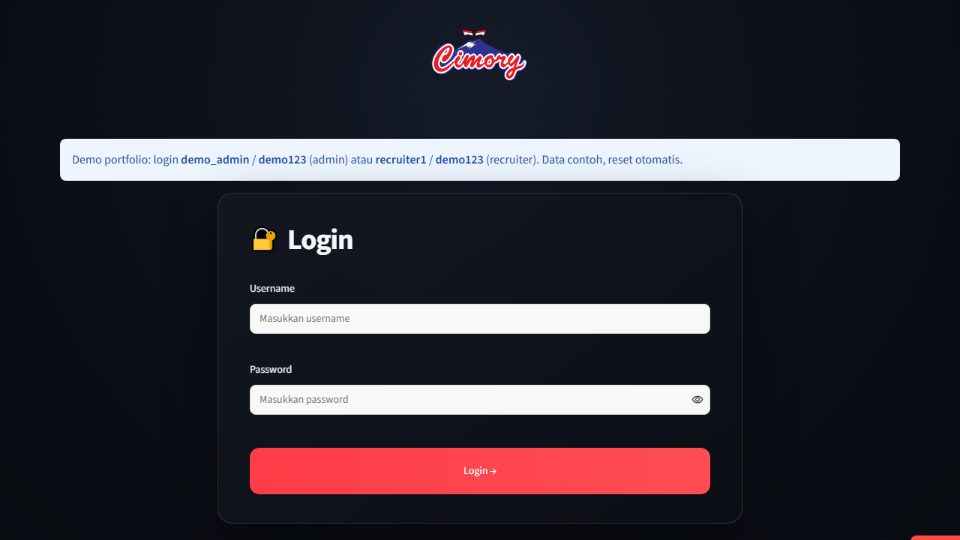
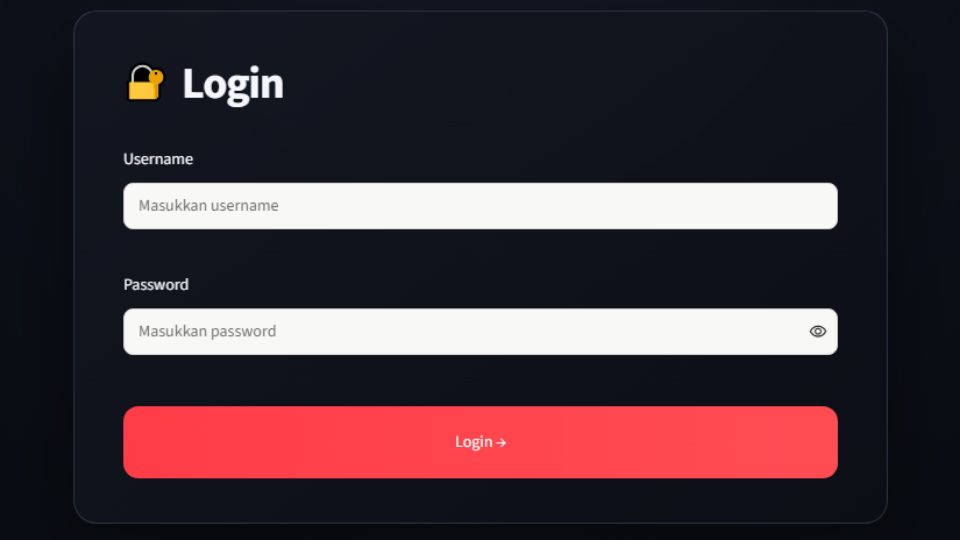
content: publish Overtime Management System; FPTK thumbnail without demo logins
- Overtime Management System published after Desi confirmed sentences O1-O11.
  Capabilities process + development (proposal; adjustable in the CMS).
  Thumbnail: login page cropped to logo and card (no contact email or
  demo-credentials box).
- FPTK thumbnail re-cropped to the login card: the old crop showed the demo
  login line.
- Tests: draft examples move to Hospital ERP; filter test covers Process;
  the snapshot test checks that TODO-only sections stay hidden.

diff --git a/tests/e2e/dev/case-study.spec.ts b/tests/e2e/dev/case-study.spec.ts
@@ -48,8 +48,12 @@ test.describe("case-study layout (1280px)", () => {
     await expect(snapshot).toContainText(
       "HR's overtime recap time went from about 4 hours to about 5 minutes.",
     );
+    // Published: sections that only hold TODO(content) are hidden until filled.
+    const empty = ["Solution design", "Verification"];
     for (const name of TEMPLATE_HEADINGS) {
-      await expect(page.getByRole("heading", { level: 2, name, exact: true })).toBeVisible();
+      const heading = page.getByRole("heading", { level: 2, name, exact: true });
+      if (empty.includes(name)) await expect(heading).toHaveCount(0);
+      else await expect(heading).toBeVisible();
     }
     await expect(page.getByRole("link", { name: "< back to projects" })).toHaveAttribute(
       "href",
@@ -119,16 +123,16 @@ test("/projects lists every draft project and the filter hides non-matching ones
   await expect(items).toHaveCount(SLUGS.length);
   await expect(items.filter({ visible: true })).toHaveCount(SLUGS.length);
   const filters = page.getByRole("navigation", { name: "Filter projects by capability" });
-  // Only FPTK (published) has capabilities so far: analysis, development, data.
+  // Only the published projects have capabilities so far:
+  // FPTK (analysis, development, data) and Overtime (process, development).
   await filters.getByRole("link", { name: /Analysis/ }).click();
   await expect(page).toHaveURL(/capability=analysis/);
   await expect(items.filter({ visible: true })).toHaveCount(1);
   await expect(items.filter({ visible: true })).toContainText("FPTK & Sourcing Database");
-  // A capability no project has yet leaves nothing visible, with a status message.
   await filters.getByRole("link", { name: /Process/ }).click();
   await expect(page).toHaveURL(/capability=process/);
-  await expect(items.filter({ visible: true })).toHaveCount(0);
-  await expect(page.getByRole("status")).toHaveText("No projects in this category yet.");
+  await expect(items.filter({ visible: true })).toHaveCount(1);
+  await expect(items.filter({ visible: true })).toContainText("Overtime Management System");
 });
 
 // PRD 12: project card -> detail -> back, at desktop and phone widths.

diff --git a/tests/e2e/dev/seo.spec.ts b/tests/e2e/dev/seo.spec.ts
@@ -31,7 +31,7 @@ test("home has a JSON-LD Person built from the profile", async ({ page }) => {
 });
 
 test("draft case studies are noindex and carry no CreativeWork yet", async ({ page }) => {
-  await page.goto("/projects/overtime-management-system");
+  await page.goto("/projects/hospital-erp-prototype");
   await expect(page.locator('meta[name="robots"]').first()).toHaveAttribute("content", /noindex/);
   expect(await jsonLd(page)).toEqual([]);
 });
